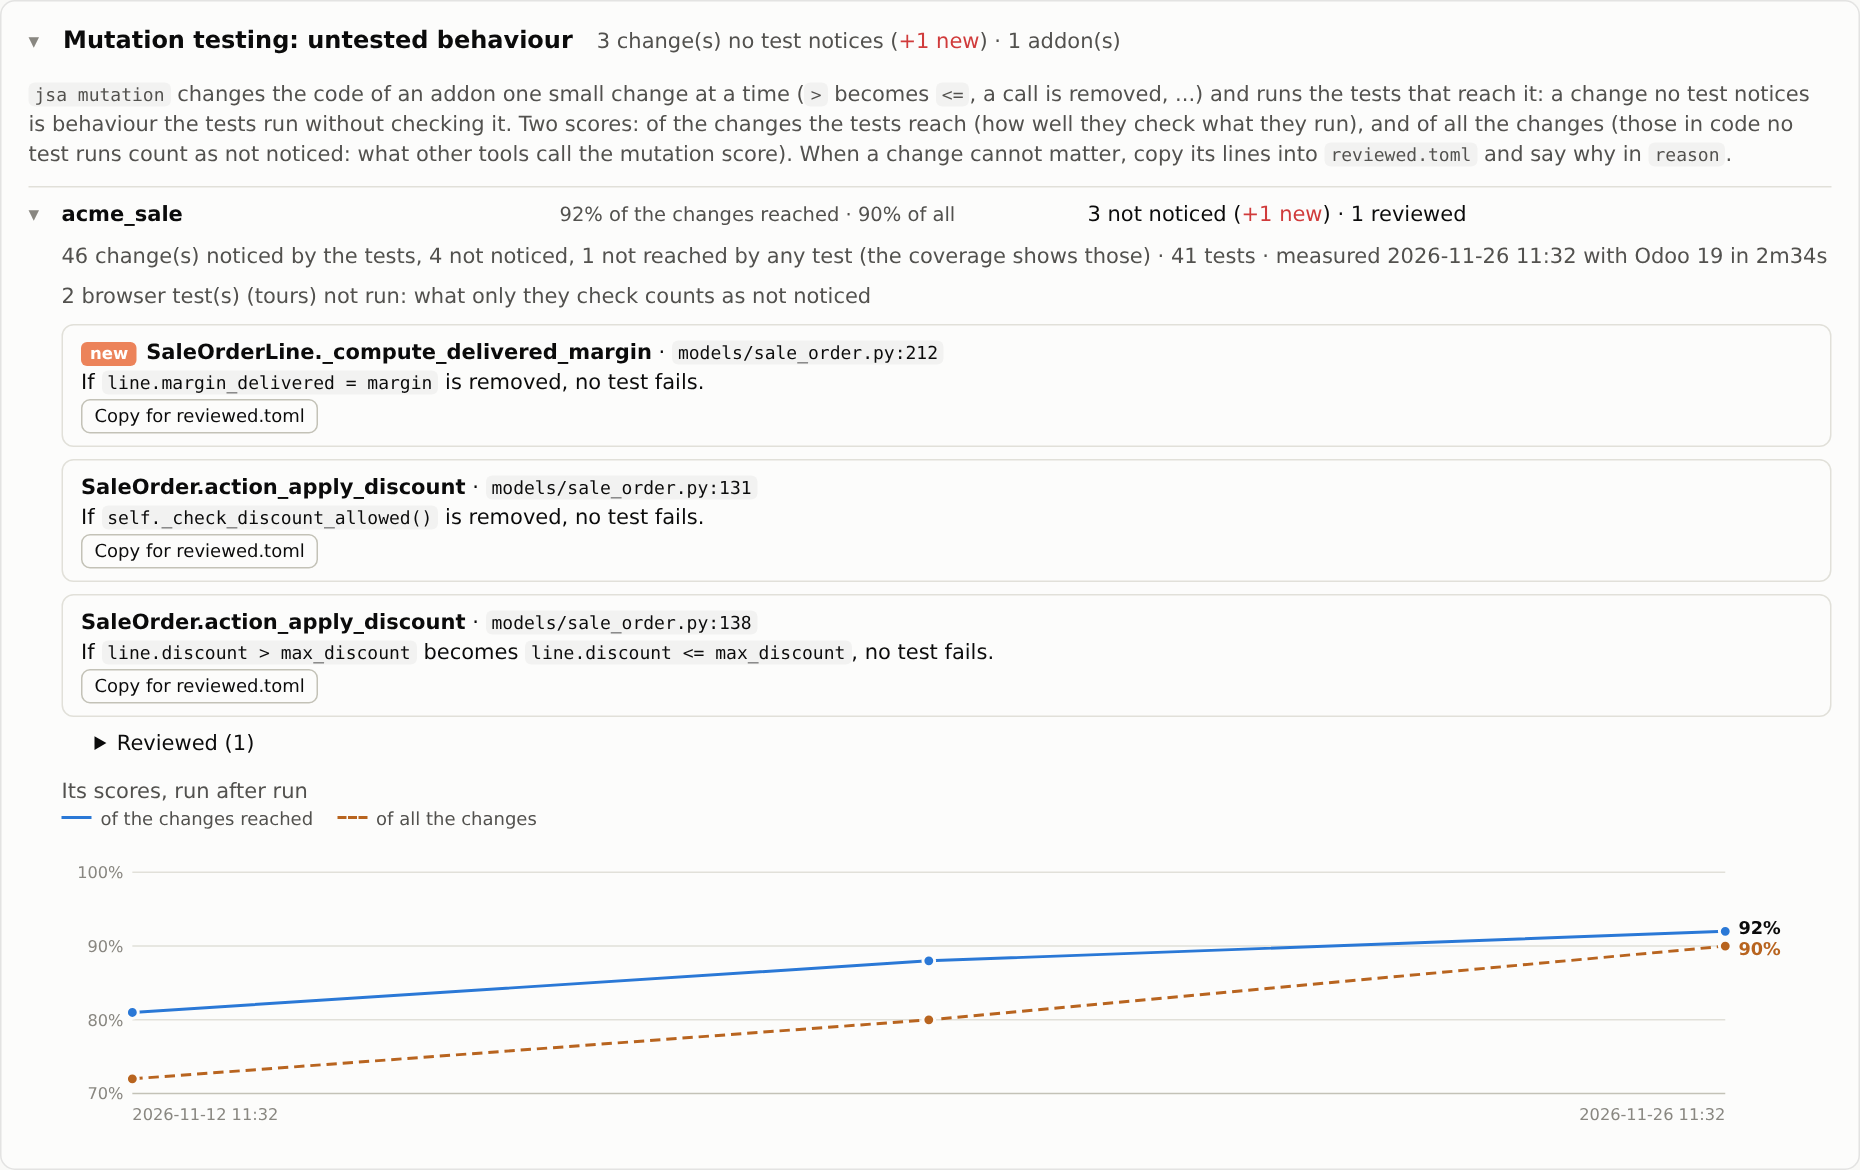
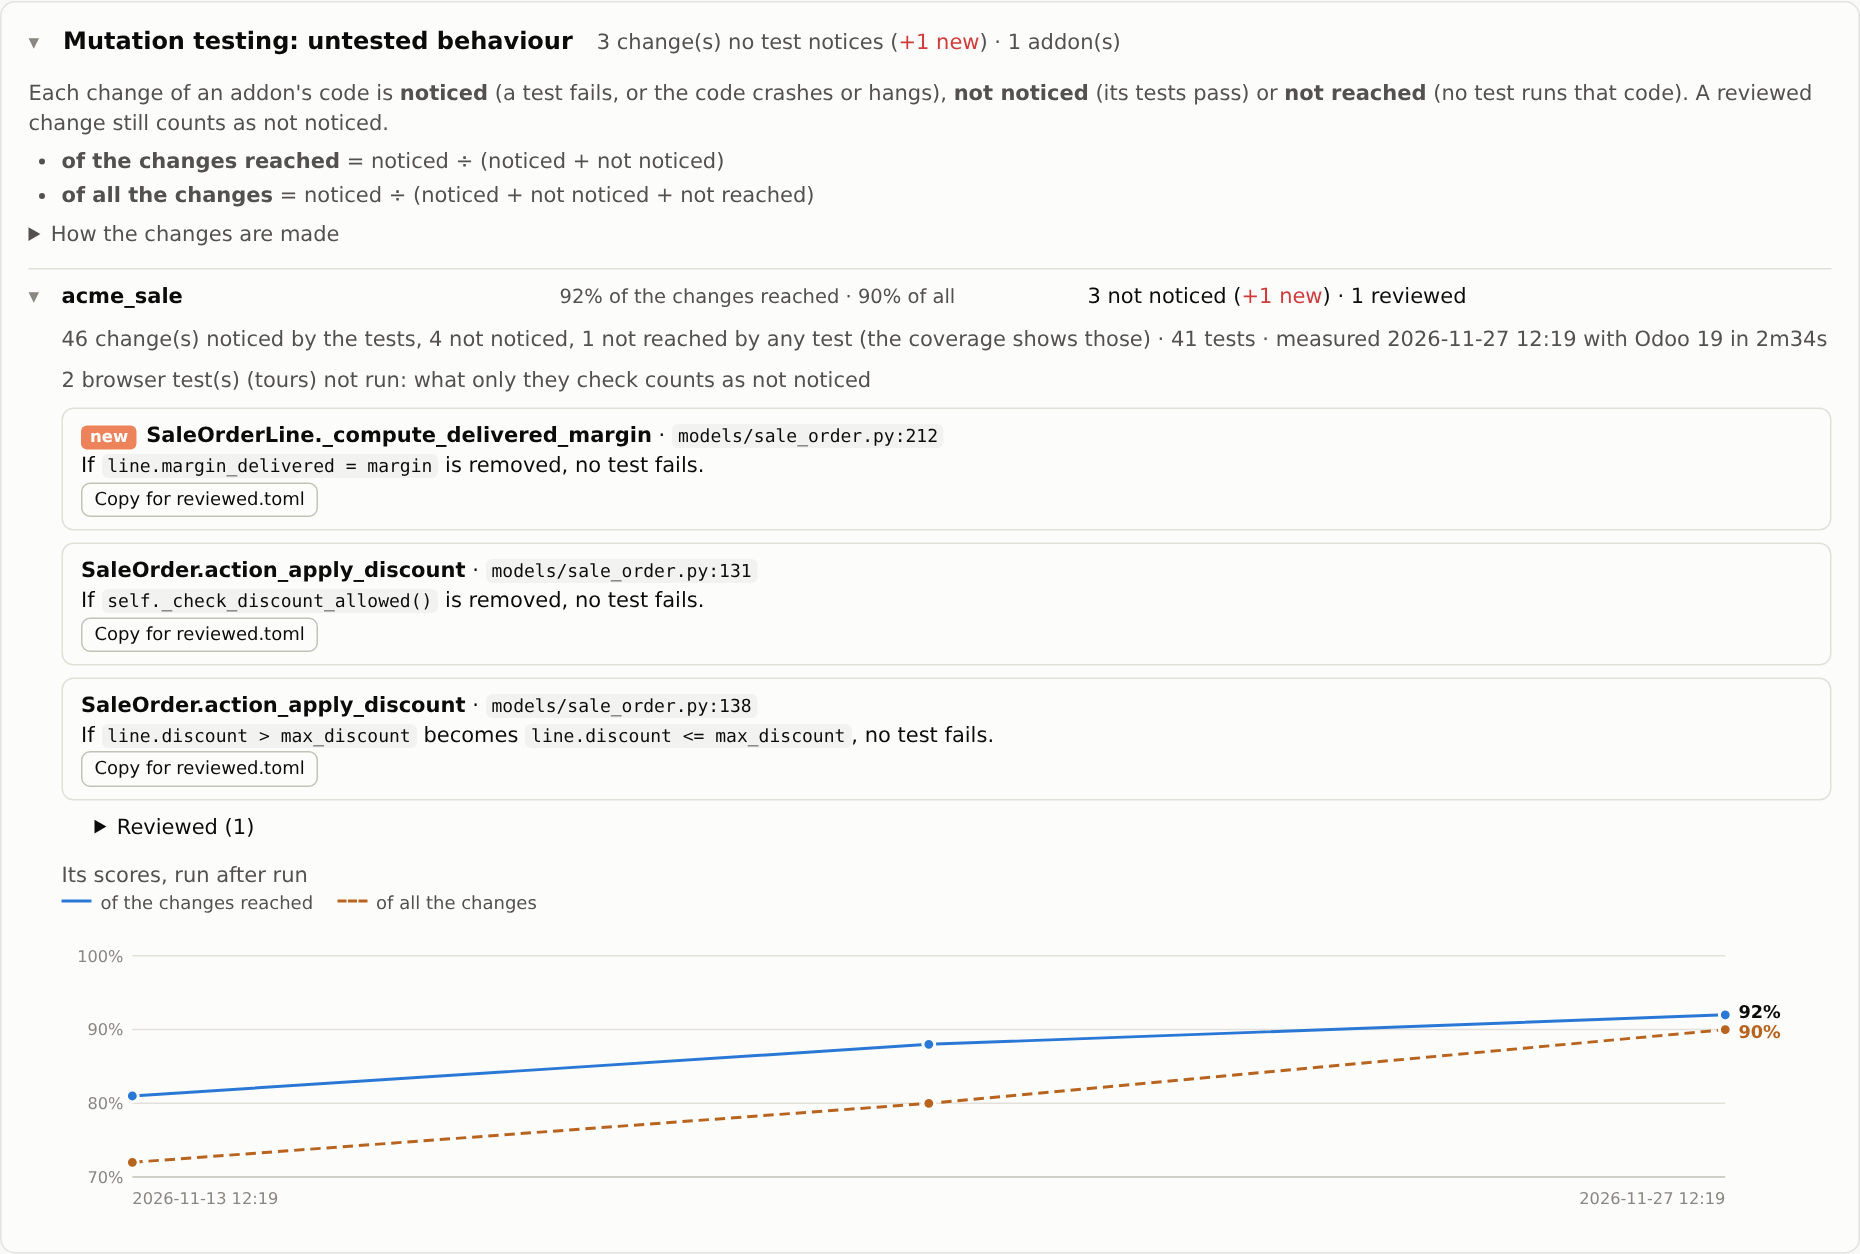
report: the two mutation scores with their formula, how the changes are made (folded)
The text on what mutation testing is goes; instead, the formulas of the two scores
(noticed, not noticed, not reached) and a fold listing every rule (what becomes
what, with an example) and what is left alone, from mutants.RULES / LEFT_ALONE
(a unit test checks every rule of the code is listed). In the table, Coverage,
Mutation and Tests are next to each other. 0.44.0.

diff --git a/jsa/structure/report_html.py b/jsa/structure/report_html.py
@@ -7,12 +7,13 @@ Coverage is a continuous color from red (0%) to green (100%). States use a symbo
 """
 import json
 import math
+import re
 from collections import Counter
 from datetime import datetime
 from html import escape as E
 from typing import Optional
 
-from . import report, security
+from . import mutants, report, security
 from .coverage import NO_REPORT, NOT_INSTALLABLE
 
 # status: (label, symbol, css class)
@@ -133,6 +134,10 @@ details.rule>summary:hover .rname{color:var(--accent)}
 details.rule>p{color:var(--ink2);margin:4px 0 6px 22px;max-width:900px}details.rule>ul.findings{margin-left:22px}
 details.reviewed{margin:0 0 10px 22px}details.reviewed>summary{cursor:pointer}
 details.rule.mutated>summary{grid-template-columns:10px minmax(180px,320px) 340px 1fr}.mbody{margin-left:22px}
+.scores{color:var(--ink2);margin:0 0 6px}.scores p{margin:0 0 4px}.scores ul{margin:0 0 6px;padding-left:22px}
+details.how{margin:0 0 12px}details.how>summary{cursor:pointer;color:var(--ink2)}
+details.how table{margin:8px 0}details.how td{vertical-align:top}details.how td:first-child{white-space:nowrap}details.how>p{color:var(--ink2);margin:4px 0 0}
+th.tight,td.tight{width:1%;white-space:nowrap}
 details.part{background:var(--surface);border:1px solid var(--border);border-radius:10px;padding:0 18px;margin-bottom:16px}
 details.part>summary{display:flex;gap:16px;align-items:baseline;flex-wrap:wrap;padding:14px 0;cursor:pointer;list-style:none}
 details.part>summary::-webkit-details-marker{display:none}
@@ -574,8 +579,9 @@ def _table(state: dict, enterprise: dict, reviewed: Optional[dict] = None, mutat
     scores = {name: (mutation_score(result), mutation_score_all(result)) for name, result in (mutation or {}).items()}
     coverage_change = {name: change for name, _, change, *_ in diff.get('metrics_changed', []) if change}
     newly = {name: len(tests) for name, tests in diff.get('newly_failing', [])}
-    columns = ([("name", "Addon", ""), ("coverage", "Coverage", "")] + ([("mutation", "Mutation", "num")] if mutation else [])
-               + [("tests", "Tests", ""), ("loc", "Lines of code", "num"), ("ent", "Enterprise", "num"),
+    columns = ([("name", "Addon", ""), ("coverage", "Coverage", "tight")]
+               + ([("mutation", "Mutation", "tight")] if mutation else [])
+               + [("tests", "Tests", "tight"), ("loc", "Lines of code", "num"), ("ent", "Enterprise", "num"),
                   ("security", "Security", "num")])
     head = "".join(f'<th data-key="{key}" class="{css}">{label}</th>' for key, label, css in columns)
     bodies = []
@@ -585,7 +591,7 @@ def _table(state: dict, enterprise: dict, reviewed: Optional[dict] = None, mutat
         failed = len(entry.get('failed') or [])
         ent = enterprise.get(name, {})
         reached, everything = scores.get(name, (None, None))
-        mutation_cell = (f'<td class="num" title="Changes of its code noticed by the tests (jsa mutation): of those its '
+        mutation_cell = (f'<td class="tight" title="Changes of its code noticed by the tests (jsa mutation): of those its '
                          f'tests reach, and of all">{"" if reached is None else f"{reached}%"}'
                          + (f'<span class="whole">{everything}% of all</span>' if everything is not None else "")
                          + '</td>') if mutation else ""
@@ -596,8 +602,8 @@ def _table(state: dict, enterprise: dict, reviewed: Optional[dict] = None, mutat
             f'<tbody class="addon" data-name="{E(name.lower())}" data-status="{state_name}" data-coverage="{coverage}" '
             f'data-mutation="{-1 if reached is None else reached}" data-tests="{STATUS_RANK[state_name] * 10000 - failed}" '
             f'data-loc="{entry.get("loc", 0)}" data-ent="{len(ent)}" data-security="{to_review[name]}">'
-            f'<tr><td class="name">{new_tag}{E(name)}</td><td>{_coverage_html(entry, coverage_change.get(name))}</td>'
-            f'{mutation_cell}<td>{_tests_html(entry, newly.get(name, 0))}</td><td class="num">{entry.get("loc", 0):,}</td>'
+            f'<tr><td class="name">{new_tag}{E(name)}</td><td class="tight">{_coverage_html(entry, coverage_change.get(name))}</td>'
+            f'{mutation_cell}<td class="tight">{_tests_html(entry, newly.get(name, 0))}</td><td class="num">{entry.get("loc", 0):,}</td>'
             f'<td class="num" title="{E(", ".join(ent))}">{len(ent) or ""}</td>'
             f'<td class="num" title="Security findings to review">{security_cell}</td></tr>'
             f'<tr class="detail"><td colspan="{len(columns)}">{_detail(name, entry, state, used_by[name], ent)}</td></tr></tbody>')
@@ -676,7 +682,7 @@ def _security(state: dict, reviewed: dict, before: Optional[dict], off=()) -> st
                  + (f" ({change})" if change else "") + (f" · {total_done} reviewed" if total_done else ""), body)
 
 
-REMOVALS = ("remove call", "remove assignment", "remove continue/break")  # mutants.REMOVALS
+REMOVALS = mutants.REMOVALS
 
 
 def mutation_counts(result: dict) -> dict:
@@ -780,13 +786,31 @@ def _mutation(results: dict, reviewed: dict) -> str:
                      f'<div class="mbody">{body}</div></details>')
     summary = ((f"{total} change(s) no test notices" if total else "every change the tests reach is noticed")
                + (f' (<span class="neg">+{total_new} new</span>)' if total_new else "") + f" · {len(results)} addon(s)")
-    intro = ('<p class="meta" style="margin:0 0 10px"><code>jsa mutation</code> changes the code of an addon one small '
-             'change at a time (<code>&gt;</code> becomes <code>&lt;=</code>, a call is removed, ...) and runs the tests '
-             'that reach it: a change no test notices is behaviour the tests run without checking it. Two scores: of '
-             'the changes the tests reach (how well they check what they run), and of all the changes (those in code no '
-             'test runs count as not noticed: what other tools call the mutation score). When a change cannot matter, '
-             'copy its lines into <code>reviewed.toml</code> and say why in <code>reason</code>.</p>')
-    return _part('mutation', 'Mutation testing: untested behaviour', summary, intro + "".join(folds))
+    return _part('mutation', 'Mutation testing: untested behaviour', summary,
+                 MUTATION_SCORES + _how_mutants() + "".join(folds))
+
+
+# the two scores of an addon (the user, 2026-11-27: their formulas, not what mutation testing is)
+MUTATION_SCORES = (
+    '<div class="scores"><p>Each change of an addon\'s code is <strong>noticed</strong> (a test fails, or the code '
+    'crashes or hangs), <strong>not noticed</strong> (its tests pass) or <strong>not reached</strong> (no test runs that '
+    'code). A reviewed change still counts as not noticed.</p><ul>'
+    '<li><strong>of the changes reached</strong> = noticed ÷ (noticed + not noticed)</li>'
+    '<li><strong>of all the changes</strong> = noticed ÷ (noticed + not noticed + not reached)</li></ul></div>')
+
+
+def _code_spans(text: str) -> str:
+    """Text whose `code` is between backticks, as HTML."""
+    return re.sub(r"`([^`]+)`", r"<code>\1</code>", E(text))
+
+
+def _how_mutants() -> str:
+    """How the changes are made, folded: the rules of mutants.py (what becomes what), then what is left alone."""
+    rows = "".join(f'<tr><td>{E(name)}</td><td>{_code_spans(what)}</td><td>{_code_spans(example)}</td></tr>'
+                   for name, what, example in mutants.RULES)
+    return ('<details class="how"><summary>How the changes are made</summary><table class="plain">'
+            '<thead><tr><th>Rule</th><th>What changes</th><th>Example</th></tr></thead>'
+            f'<tbody>{rows}</tbody></table><p>{_code_spans(mutants.LEFT_ALONE)}</p></details>')
 
 
 def _seconds(seconds: float) -> str:

diff --git a/jsa/structure/mutants.py b/jsa/structure/mutants.py
@@ -10,16 +10,7 @@ the same mutants (never random). In the copy, mutant k is active when jsa_mutant
 no mutant active the copy behaves like the original. Only the bodies of functions are changed: class bodies (fields),
 decorators and default values run once, when Odoo imports the module.
 
-Rules: a comparison becomes its opposite (> -> <=; never the boundary >=, often equivalent), and <-> or, a `not`
-removed, a condition negated (of an `if`, of `a if c else b`, of a comprehension's `if`), + <-> -, * <-> /,
-+= <-> -=, True <-> False, a number changed (0 -> 1, 1 -> 0, n -> n+1), a call statement removed, an assignment to a
-field or a key removed, continue / break removed, a value returned emptied when its kind is sure (`emptied`: records
-of browse/search/filtered/... -> none, sum(x) / len(x) -> 0, a list comprehension -> []).
-Left alone: the text (strings, f-strings, error messages, raise), _() and _lt(), logging, assert, ensure_one(),
-super() calls, flush / invalidate; the kinds of constants that gave equivalent mutants in the prototype (the id of
-an x2many command (0, 0, vals), the default of .get(k, 0.0), the first value of a local variable, `return True` of a
-button, the number of a comparison); what is of no interest (the dict a method returns to the web client, chatter
-messages and activities, names taken from a sequence, and an `if` guarding only those); the methods matching `skip`.
+The rules and what is left alone: RULES and LEFT_ALONE below (the report shows them).
 """
 import ast
 import copy
@@ -31,6 +22,36 @@ import sys
 from pathlib import Path
 
 RULES_VERSION = 2  # a change of what is mutated: the results of another version are not reused
+# What each rule changes, as the report shows it (report_html._mutation; `code` between backticks): (the rule = the
+# `op` of its mutants, what it changes, an example). A unit test checks it names every rule of the Mutator below.
+RULES = (
+    ("comparison", "A comparison becomes its opposite: `<` and `>=`, `<=` and `>`, `==` and `!=`, `in` and `not in`, "
+                   "`is` and `is not`. Never the boundary (`>` to `>=`): often a change that cannot matter.",
+     "`qty > 10` → `qty <= 10`"),
+    ("and/or", "`and` and `or` are swapped.", "`paid and done` → `paid or done`"),
+    ("remove not", "A `not` is removed.", "`not done` → `done`"),
+    ("negate condition", "A condition that is not a comparison, an and/or nor a `not` is negated: of an `if`, of "
+                         "`a if c else b`, of the `if` of a comprehension.", "`if lines:` → `if not lines:`"),
+    ("arithmetic", "`+` and `-`, `*` and `/` are swapped, so are `+=` and `-=`, `*=` and `/=` (not when a side is "
+                   "text, a list or a tuple).", "`qty * price` → `qty / price`"),
+    ("boolean", "`True` and `False` are swapped.", "`True` → `False`"),
+    ("number", "A number changes: 0 becomes 1, 1 becomes 0, any other becomes itself + 1.", "`0.9` → `1.9`"),
+    ("remove call", "A call alone on its line is removed.", "`order.action_confirm()` → removed"),
+    ("remove assignment", "An assignment to a field or a key is removed.", "`self.note = text` → removed"),
+    ("remove continue/break", "A `continue` or a `break` is removed.", "`continue` → removed"),
+    ("empty return", "A value returned is emptied, only when its kind is sure (so the empty one is always valid): the "
+                     "records of `browse`, `search`, `filtered`, `filtered_domain`, `sorted`, `mapped` → none, "
+                     "`sum(x)` and `len(x)` → 0, a list comprehension → `[]`. Not `return res`: its kind is unknown.",
+     "`return self.browse(ids)` → `return self.browse(ids)[:0]`"),
+)
+LEFT_ALONE = (
+    "Only the code inside functions is changed (not the fields, decorators, default values), not the tests, "
+    "migrations, hooks, manifests nor `__init__.py`. Never changed: text (strings, f-strings), `raise` and its message, "
+    "logging, `_()`, `assert`, `ensure_one()`, `super()` calls, flush and invalidate. Left alone because changing them "
+    "cannot matter: the id of `(0, 0, vals)`, the default of `.get(k, 0.0)`, the first value of a local variable, "
+    "`return True` of a public method, the number in a comparison. Left alone because nobody tests them: the action a "
+    "method returns to the web client, chatter messages and activities, names taken from a sequence, an `if` guarding "
+    "only those. And the methods matching `[mutation] skip` of config.toml.")
 SKIP_CALLS = {"_", "_lt", "print", "warn"}
 LOGGERS = {"_logger", "logger", "logging", "_log"}
 NO_DELETE = {"ensure_one", "super", "flush_model", "flush_recordset", "flush_all", "invalidate_recordset",

diff --git a/tests/test_structure_mutation.py b/tests/test_structure_mutation.py
@@ -1,3 +1,5 @@
+import ast
+import inspect
 import json
 import sys
 import types
@@ -265,6 +267,20 @@ def test_the_report_lists_the_changes_no_test_notices(tmp_path):
     entry = report_html.mutation_entry("my_addon", RESULT["mutants"][0])
     assert entry.startswith('[[mutation]]\nid = "aaaaaaaaaa"  # my_addon/models/sale.py:21 | Sale.compute | remove call\n')
     assert 'data-key="mutation"' in page and 'data-mutation="33"' in page and 'data-mutation="-1"' in page
+    # the two scores with their formula, how the changes are made folded (not what mutation testing is)
+    assert "<li><strong>of all the changes</strong> = noticed ÷ (noticed + not noticed + not reached)</li>" in section
+    assert '<details class="how"><summary>How the changes are made</summary>' in section and "changes the code" not in section
+    assert "<td>comparison</td>" in section and "<code>qty &gt; 10</code> → <code>qty &lt;= 10</code>" in section
+    # Coverage, Mutation, Tests next to each other: as narrow as their content, Mutation not aligned right
+    assert ('<th data-key="coverage" class="tight">Coverage</th><th data-key="mutation" class="tight">Mutation</th>'
+            '<th data-key="tests" class="tight">Tests</th>') in page
+
+
+def test_the_report_names_every_rule_of_the_mutator():
+    tree = ast.parse(inspect.getsource(mutants.Mutator))
+    made = {call.args[1].value for call in ast.walk(tree) if isinstance(call, ast.Call)
+            and isinstance(call.func, ast.Attribute) and call.func.attr in ("expr", "stmt") and len(call.args) > 1}
+    assert made == {name for name, _, _ in mutants.RULES}
 
 
 def test_reviewed_changes_in_their_own_section(tmp_path, capsys):

diff --git a/docs/guide.md b/docs/guide.md
@@ -368,7 +368,8 @@ report: "If `move._post()` is removed, no test fails". Meant for your critical a
   run that a test noticed: how well they check what they run) and of all its changes (those in code no test runs count
   as not noticed: what other tools call the mutation score); the changes not noticed, by function, those new since its
   previous `jsa mutation` first and tagged; both scores run after run. The table shows both too. "Not reached by any
-  test" is the coverage's job.
+  test" is the coverage's job. On top of the section: the formulas of the two scores, and, folded, "How the changes
+  are made": every rule (what becomes what, with an example) and what is left alone, taken from the code itself.
 
 ![Mutation testing](images/report_mutation.png)
 
